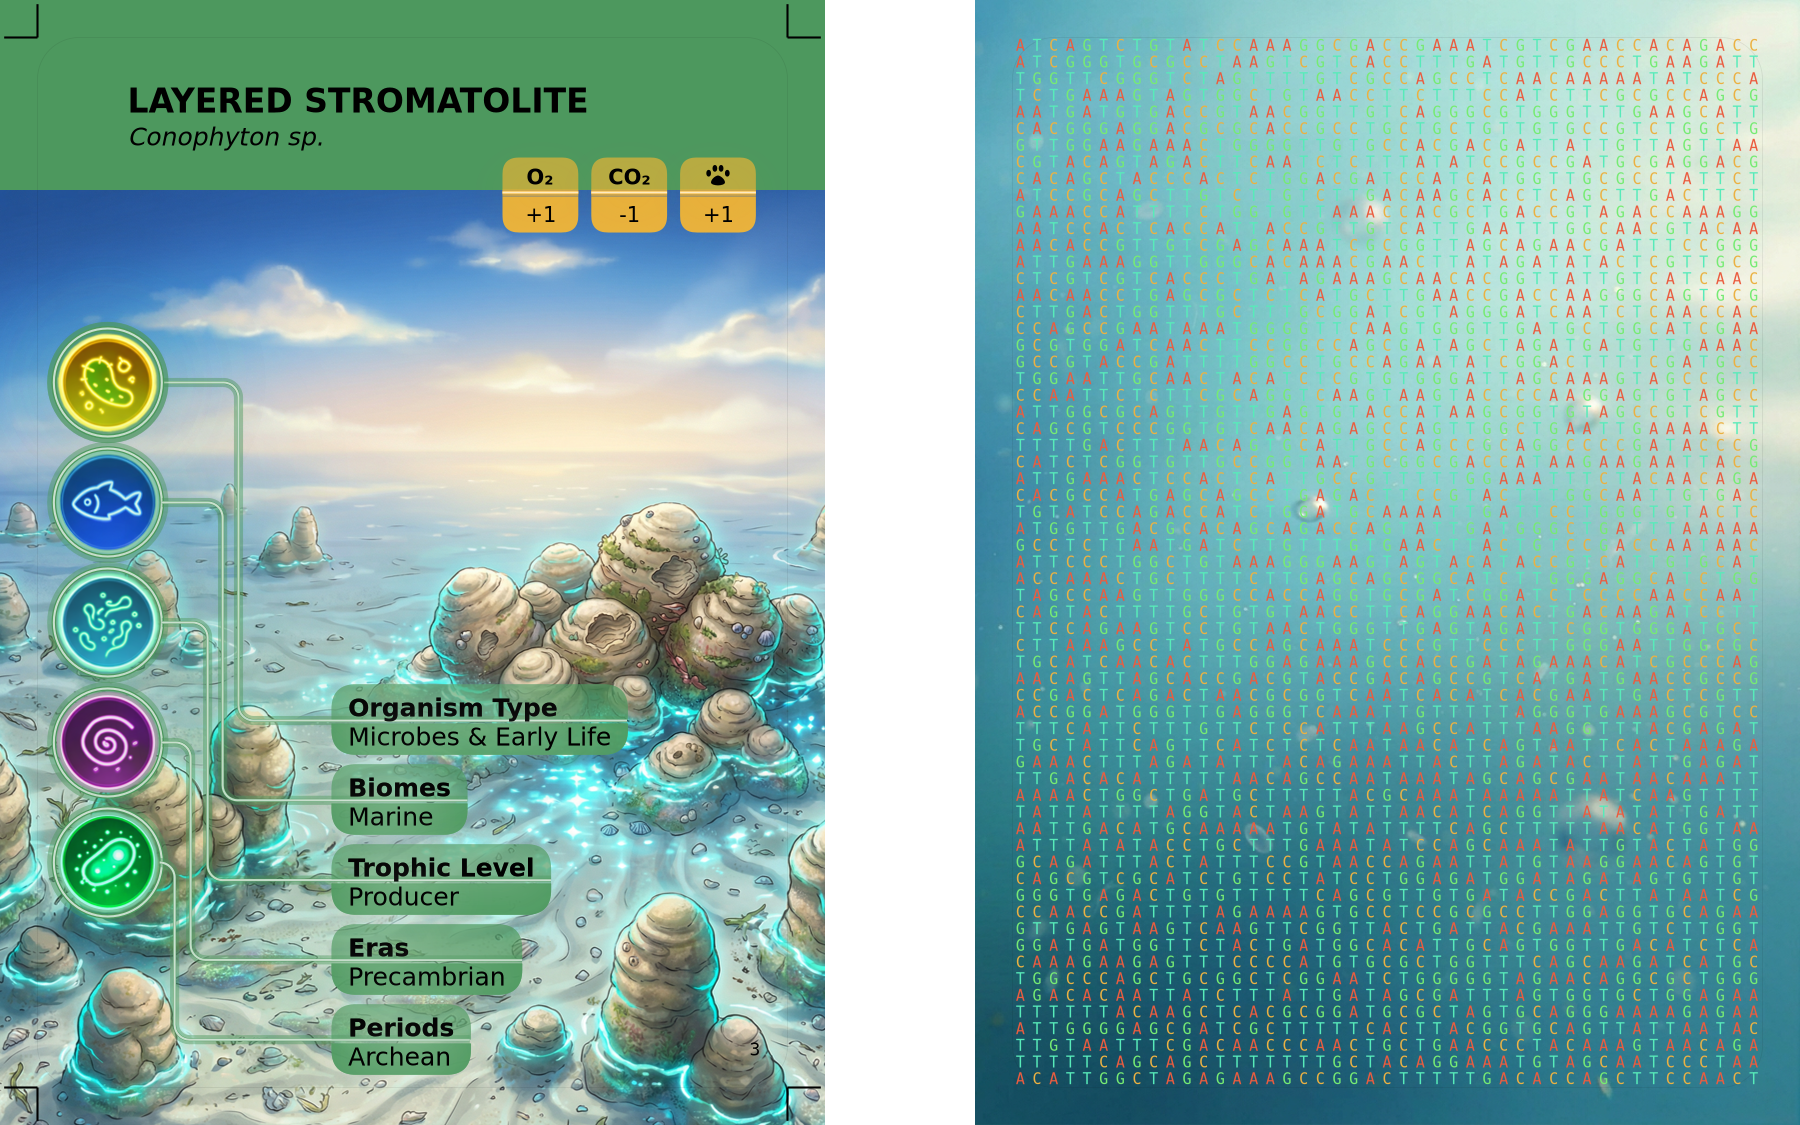
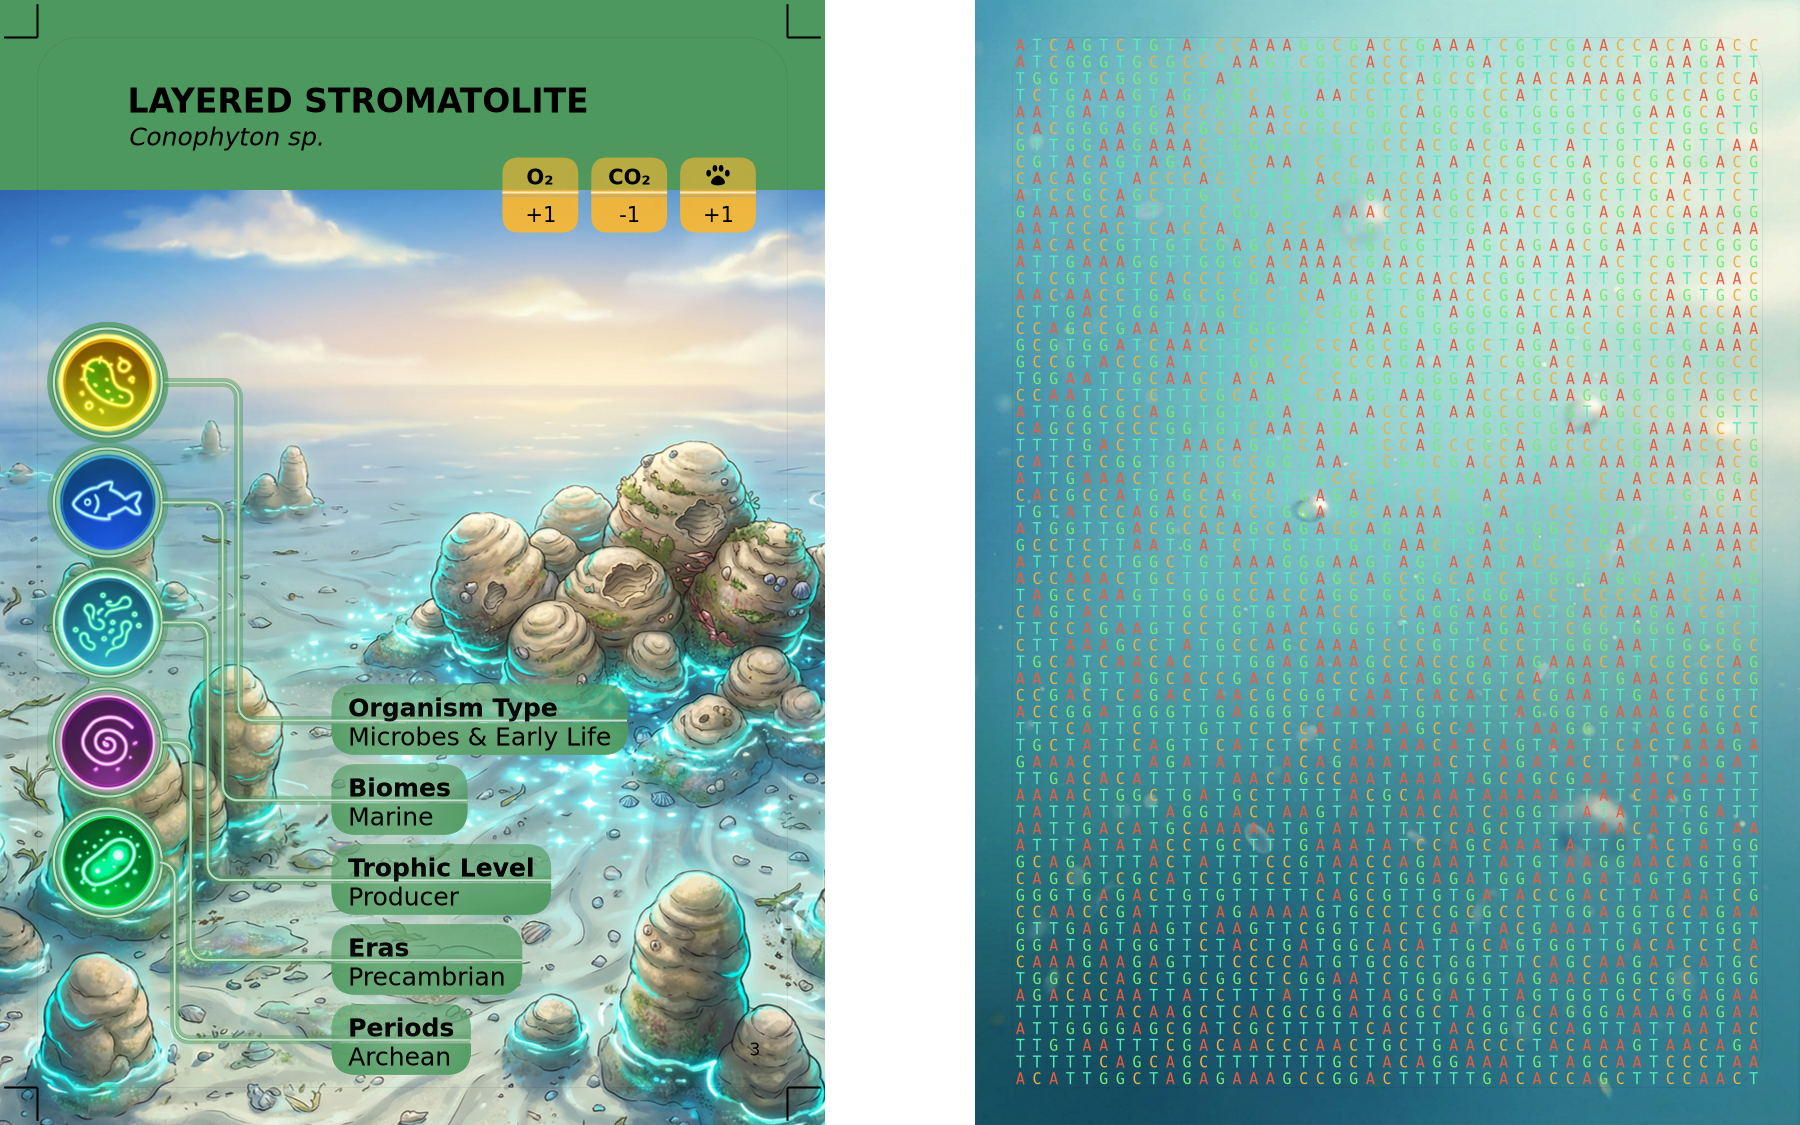
Update manifest and adjust layout for Card 3 and Card 6

Changed region(s): [[0.0, 0.1556, 0.4667, 1.0], [0.2178, 0.9956, 0.2489, 1.0]]

diff --git a/game/lib/cards/layout-png.js b/game/lib/cards/layout-png.js
@@ -55,8 +55,11 @@ async function drawCardPNG(ctx, xPt, yPt, card, scale, options = {}) {
     ((card && card.scientific_name || '').toLowerCase() === 'anabaena sp.');
   const isCard2 = (card && card.card_label === 'Card 2') ||
     ((card && card.scientific_name || '').toLowerCase() === 'thalassiosira pseudonana');
+  const isCard3 = (card && card.card_label === 'Card 3') ||
+    ((card && card.scientific_name || '').toLowerCase() === 'conophyton sp.');
   const isCard4 = (card && card.card_label === 'Card 4') ||
     ((card && card.scientific_name || '').toLowerCase() === 'escherichia coli');
+  const isCard6 = card && card.card_label === 'Card 6';
   const isCard21 = (card && card.card_label === 'Card 21') ||
     ((card && card.scientific_name || '').toLowerCase() === 'quercus robur');
   const isCard29 = card && card.card_label === 'Card 29';
@@ -161,9 +164,15 @@ async function drawCardPNG(ctx, xPt, yPt, card, scale, options = {}) {
     if (isCard2) {
       mainPhotoX -= 20;
     }
+    if (isCard3) {
+      mainPhotoY -= 100;
+    }
     if (isCard4) {
       mainPhotoX -= 10;
       mainPhotoY -= 30;
+    }
+    if (isCard6) {
+      mainPhotoY -= 40;
     }
     if (isCard21) {
       mainPhotoX += 25;
@@ -213,6 +222,8 @@ async function drawCardPNG(ctx, xPt, yPt, card, scale, options = {}) {
     }
     if (isCard2) {
       mainPhotoOptions.photoScaleMultiplier = 0.96;
+    } else if (isCard3) {
+      mainPhotoOptions.photoScaleMultiplier = 1.10;
     } else if (isCard4) {
       mainPhotoOptions.photoScaleMultiplier = 1.00;
     } else if (isCard21) {
